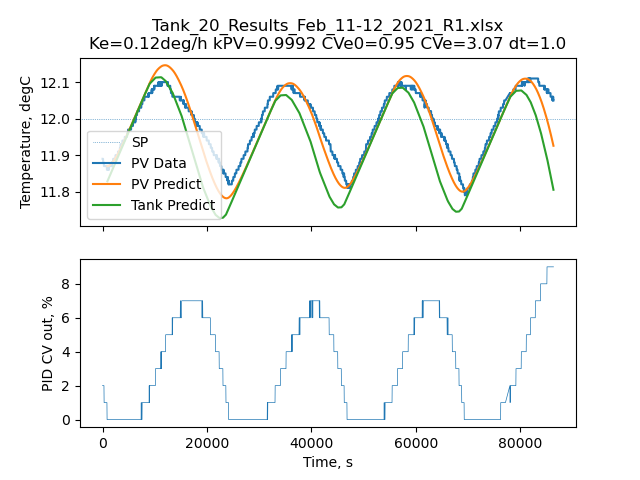
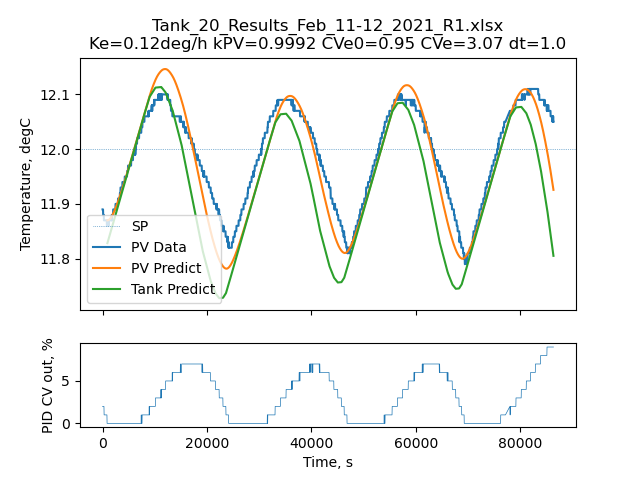
Update plot height_ratios

diff --git a/pv_predict.py b/pv_predict.py
@@ -118,7 +118,10 @@ Model
   def plot_data(self,ATs,PVs,Tts,title):
     import matplotlib.pyplot as plt
 
-    fig,(pvplt,cvplt) = plt.subplots(nrows=2,ncols=1,sharex=True)
+    fig,(pvplt,cvplt) = plt.subplots(nrows=2,ncols=1
+                                    ,sharex=True
+                                    ,gridspec_kw=dict(height_ratios=[3,1])
+                                    )
 
     pvplt.axhline(12.0,label='SP',linewidth=0.5,linestyle='dotted')
     pvplt.plot(self.ats,self.pvs,label='PV Data')
